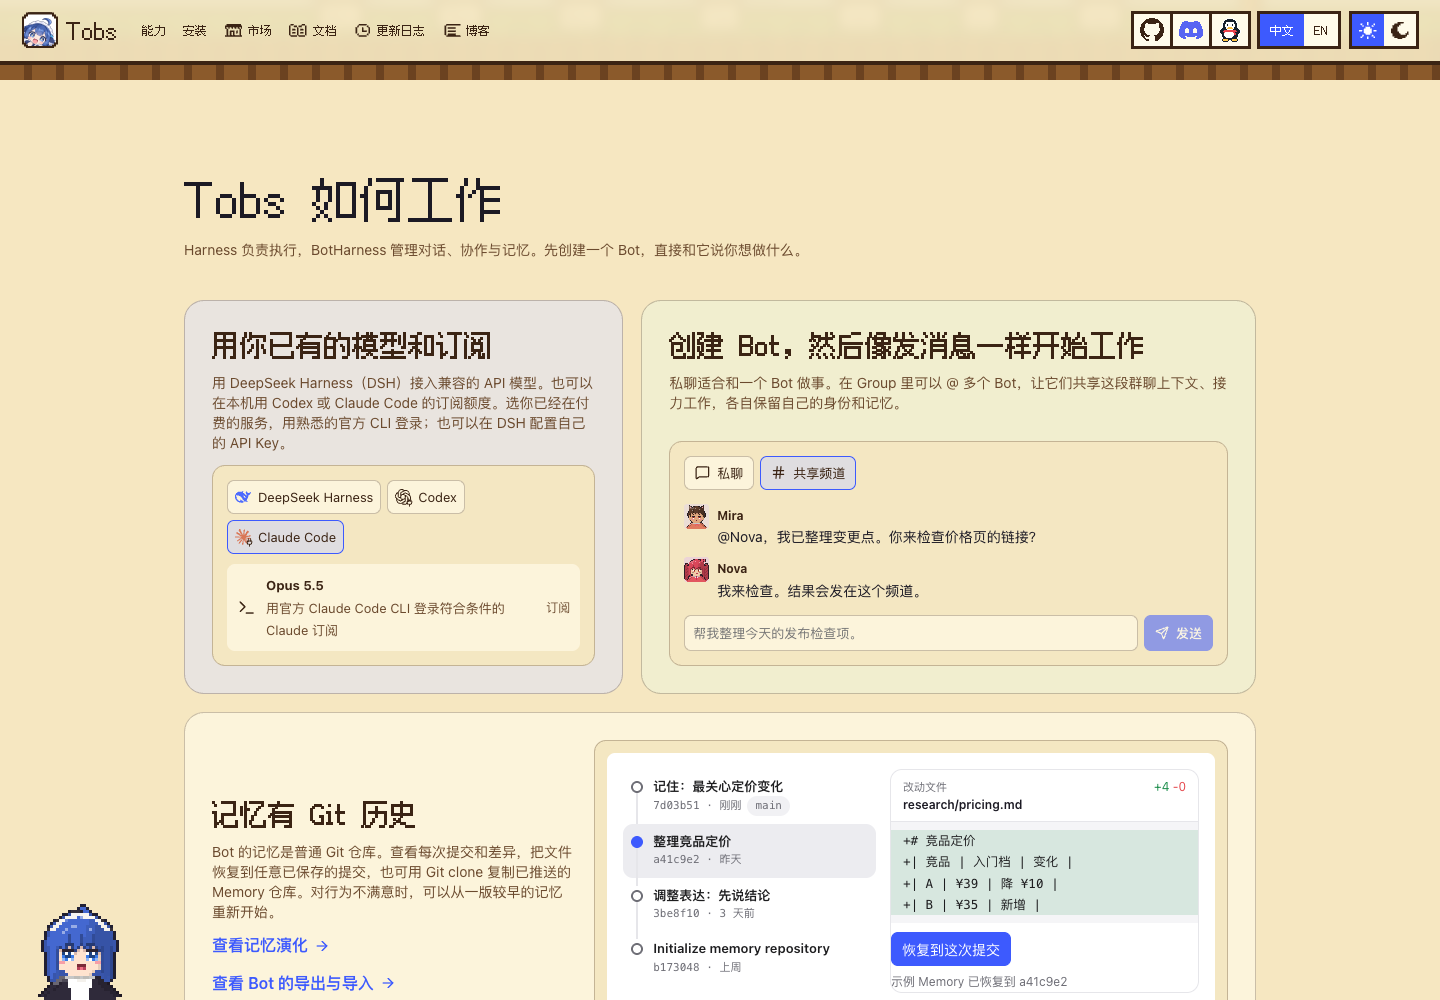
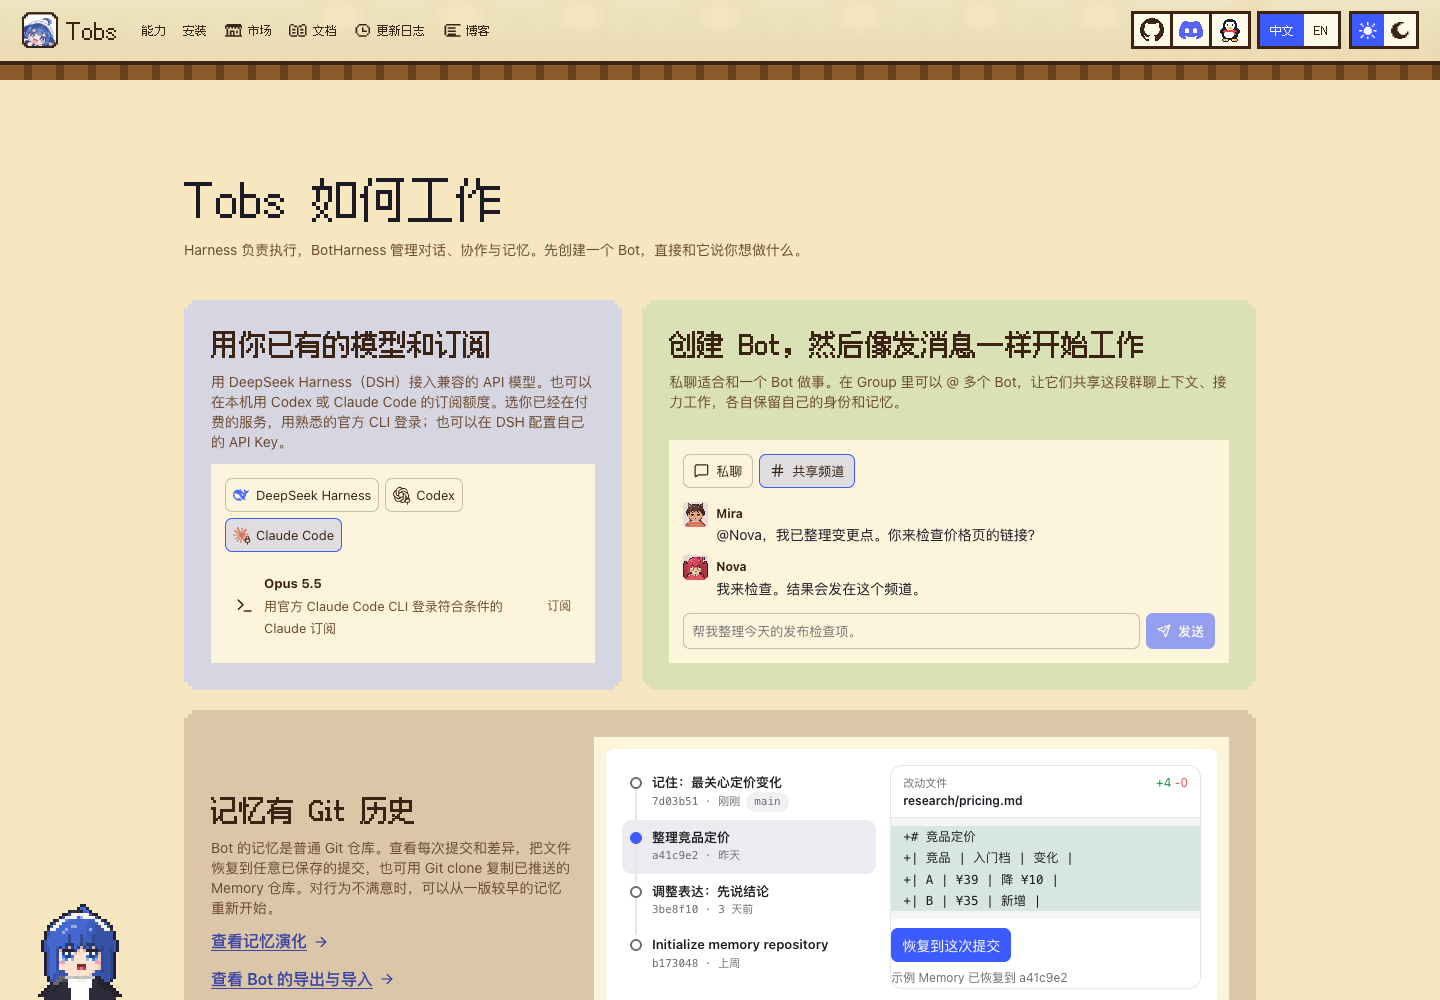
Use Tobs pixel styling for the homepage cards

diff --git a/src/homepage.css b/src/homepage.css
@@ -3,17 +3,47 @@
   --workflow-border: color-mix(in srgb, var(--ink) 26%, transparent);
   --workflow-soft: color-mix(in srgb, var(--bg-alt) 66%, var(--bubble));
   --workflow-selected: color-mix(in srgb, var(--accent) 15%, var(--workflow-surface));
+  /* Each corner steps in by one site pixel twice. */
+  --workflow-pixel-corners: polygon(
+    calc(2 * var(--px)) 0,
+    calc(100% - 2 * var(--px)) 0,
+    calc(100% - 2 * var(--px)) var(--px),
+    calc(100% - var(--px)) var(--px),
+    calc(100% - var(--px)) calc(2 * var(--px)),
+    100% calc(2 * var(--px)),
+    100% calc(100% - 2 * var(--px)),
+    calc(100% - var(--px)) calc(100% - 2 * var(--px)),
+    calc(100% - var(--px)) calc(100% - var(--px)),
+    calc(100% - 2 * var(--px)) calc(100% - var(--px)),
+    calc(100% - 2 * var(--px)) 100%,
+    calc(2 * var(--px)) 100%,
+    calc(2 * var(--px)) calc(100% - var(--px)),
+    var(--px) calc(100% - var(--px)),
+    var(--px) calc(100% - 2 * var(--px)),
+    0 calc(100% - 2 * var(--px)),
+    0 calc(2 * var(--px)),
+    var(--px) calc(2 * var(--px)),
+    var(--px) var(--px),
+    calc(2 * var(--px)) var(--px)
+  );
 }
 
 .workflow-bento,
 .workflow-feature-grid,
 .workflow-install-cards {
   display: grid;
-  gap: 18px;
+  gap: 20px;
 }
 
 .workflow-bento {
   grid-template-columns: minmax(0, 5fr) minmax(0, 7fr);
+}
+
+.workflow-card,
+.workflow-opinion,
+.workflow-free {
+  clip-path: var(--workflow-pixel-corners);
+  background: var(--workflow-surface);
 }
 
 .workflow-card {
@@ -22,9 +52,6 @@
   min-width: 0;
   gap: 12px;
   padding: clamp(16px, 2.3vw, 27px);
-  border: 1px solid var(--workflow-border);
-  border-radius: 20px;
-  background: var(--workflow-surface);
 }
 
 .workflow-card h3 {
@@ -41,11 +68,15 @@
 }
 
 .workflow-card--engine {
-  background: color-mix(in srgb, var(--workflow-surface) 90%, var(--accent));
+  background: color-mix(in srgb, var(--workflow-surface), var(--accent) 20%);
 }
 
 .workflow-card--chat {
-  background: color-mix(in srgb, var(--workflow-surface) 90%, var(--grass-light));
+  background: color-mix(in srgb, var(--workflow-surface), var(--grass-light) 31%);
+}
+
+.workflow-card--memory {
+  background: color-mix(in srgb, var(--workflow-surface), var(--soil) 29%);
 }
 
 .workflow-card--memory,
@@ -69,11 +100,15 @@
 .workflow-demo {
   min-width: 0;
   padding: 14px;
-  border: 1px solid var(--workflow-border);
-  border-radius: 13px;
   background: var(--workflow-soft);
   color: var(--ink);
   font-size: 13px;
+}
+
+.workflow-bento :is(.workflow-demo, .feature-demo) {
+  background: var(--workflow-surface);
+  border: 0;
+  box-shadow: none;
 }
 
 .workflow-card > .workflow-demo,
@@ -223,18 +258,12 @@
 
 .workflow-card .feature-demo {
   padding: 12px;
-  border: 1px solid var(--workflow-border);
-  border-radius: 12px;
-  box-shadow: none;
-  background: var(--workflow-soft);
 }
 
-.workflow-card .feature-demo figcaption {
+.workflow-bento .feature-demo figcaption {
   padding: 0;
   color: var(--ink-soft);
   background: transparent;
-  font: inherit;
-  font-size: 12px;
 }
 
 .workflow-card .app--mini {
@@ -276,6 +305,12 @@
   font-weight: 600;
 }
 
+.workflow-bento .workflow-link {
+  color: color-mix(in srgb, var(--accent), var(--ink) 38%);
+  text-decoration: underline;
+  text-underline-offset: 0.18em;
+}
+
 .workflow-fixture-note,
 .workflow-release,
 .workflow-opinion {
@@ -286,8 +321,6 @@
 .workflow-opinion {
   margin-top: 20px;
   padding: 15px 18px;
-  border: 1px solid var(--workflow-border);
-  border-radius: 12px;
 }
 
 .workflow-opinion summary {
@@ -337,7 +370,6 @@
   display: grid;
   gap: 6px;
   padding: 8px;
-  border-radius: 7px;
   outline: none;
 }
 
@@ -356,9 +388,8 @@
 .workflow-step-no {
   width: fit-content;
   padding: 1px 8px;
-  border-radius: 5px;
-  background: var(--workflow-selected);
-  color: var(--ink);
+  background: var(--accent);
+  color: var(--accent-ink);
   font: 18px/1.45 var(--pixel-font);
 }
 
@@ -368,8 +399,6 @@
 
 .workflow-free {
   padding: clamp(24px, 6vw, 56px);
-  border: 1px solid var(--workflow-border);
-  border-radius: 22px;
   background: color-mix(in srgb, var(--workflow-surface) 82%, var(--grass-light));
 }
 
